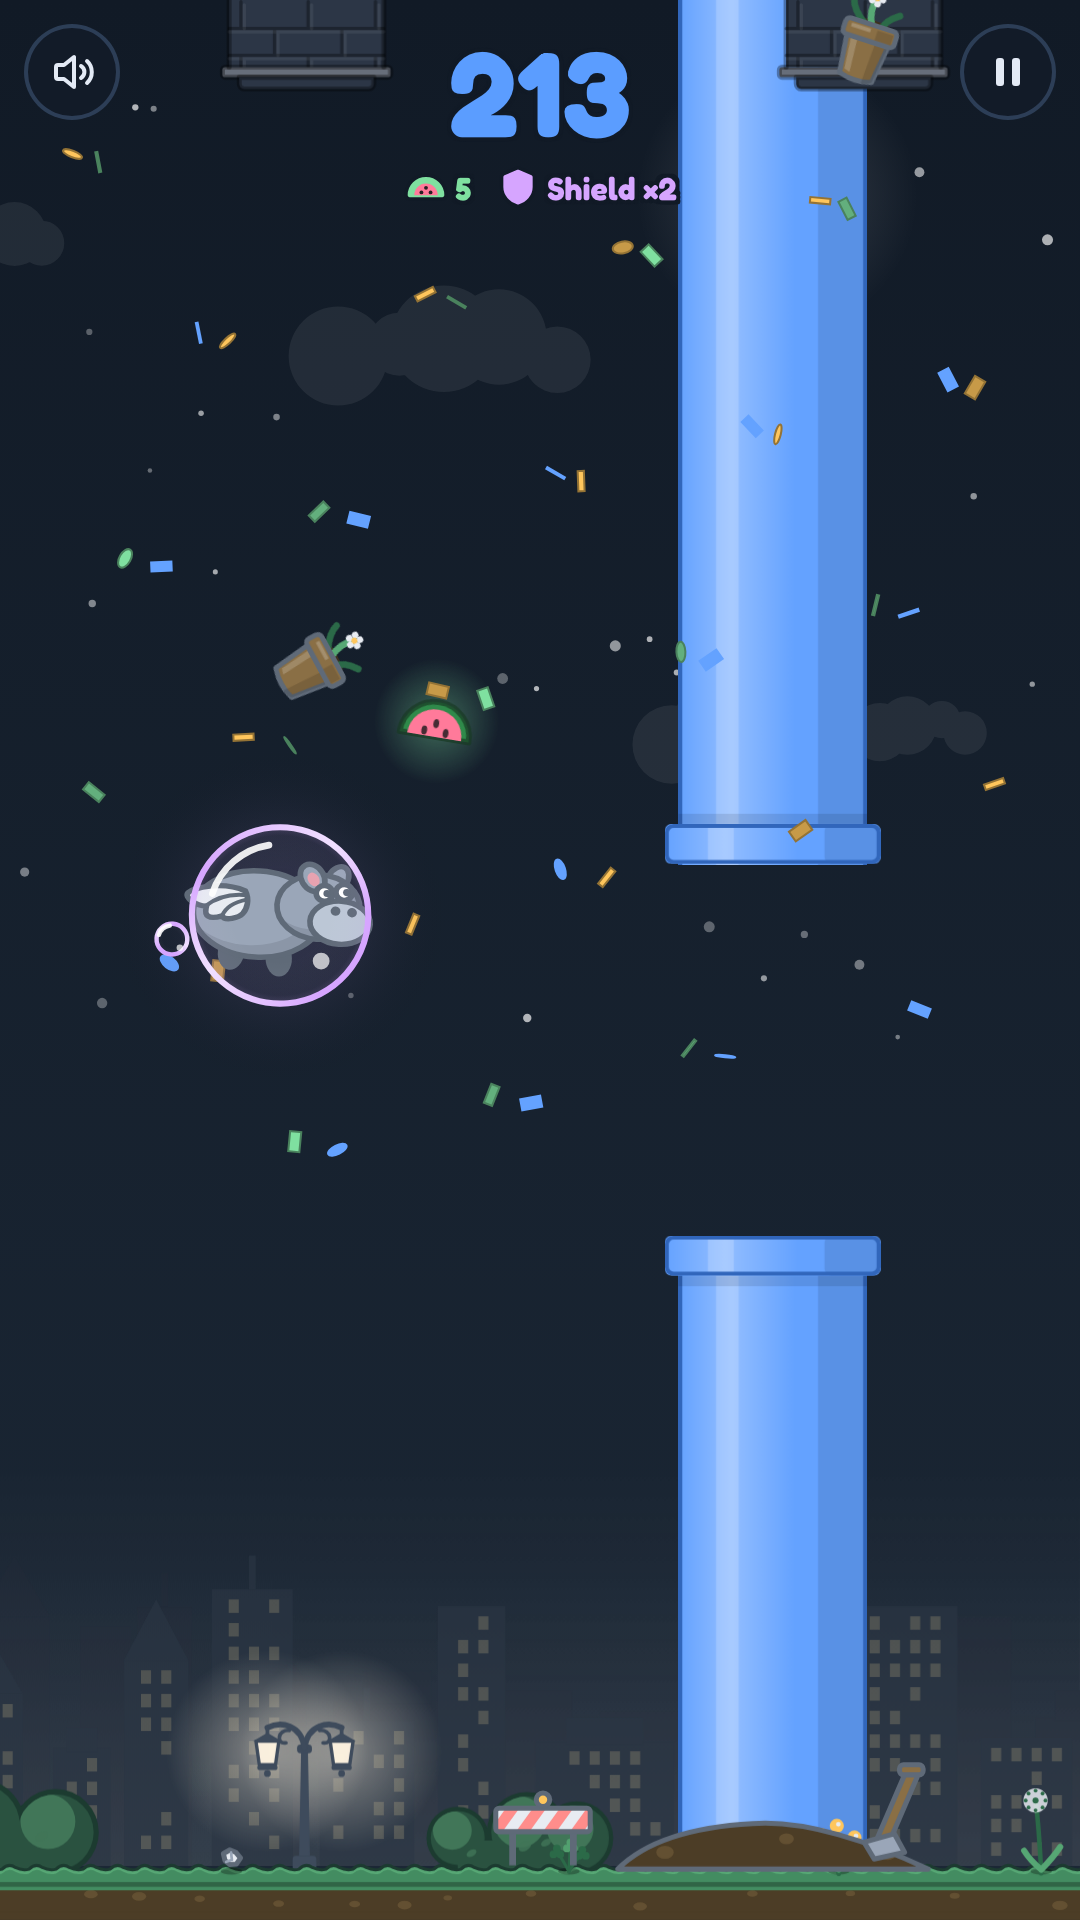
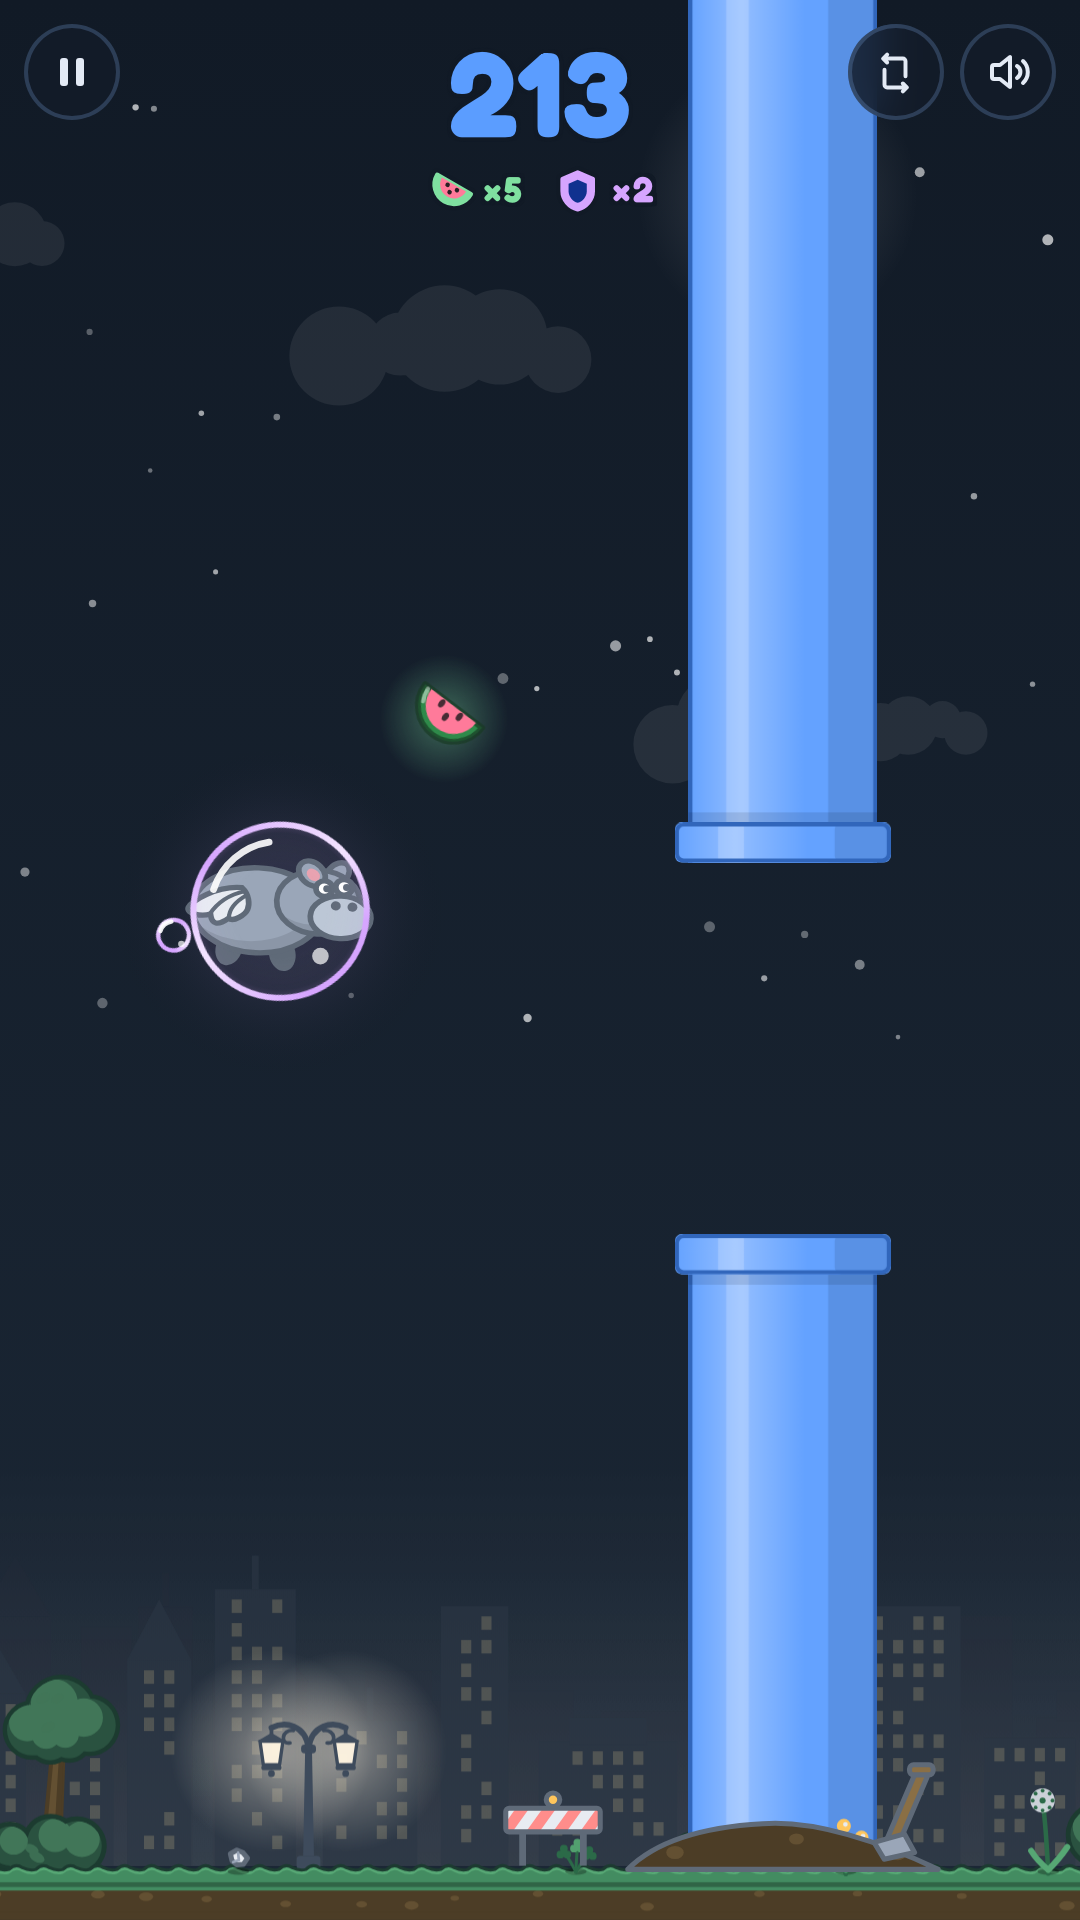
Cap the lettering, refresh screenshots, cut release

diff --git a/scripts/make-screenshots.ts b/scripts/make-screenshots.ts
@@ -87,11 +87,7 @@ const VIEWPORTS = {
   wide: { width: 960, height: 540 },
 }
 
-/**
- * A round deep in the game: a big score, a shield with a spare, a melon to detour for, a pipe
- * under repair swinging ahead, a pot on its balcony and one already falling, and the last
- * milestone's confetti still in the air.
- */
+/** A round deep in the game: a big score, a shield in hand, a melon ahead and pipes to thread. */
 async function flight(page: Page): Promise<void> {
   await page.evaluate(() => {
     const runtime = (window as Window & { __flappyHippo?: { flap(): void; inspect(): { state: any; world: any } } })
@@ -113,56 +109,11 @@ async function flight(page: Page): Promise<void> {
     const ahead = Math.max(world.hippoX + 150, world.width * 0.62)
     state.pipes = [
       { x: ahead, gapY: gap + 8, half: 55, passed: false, baseY: gap + 8, swing: 34, phase: 0.6 },
-      { x: ahead + 220, gapY: gap - 55, half: 55, passed: false, baseY: gap - 55, swing: 0, phase: 0 },
-      { x: ahead + 440, gapY: gap + 25, half: 55, passed: false, baseY: gap + 25, swing: 0, phase: 0 },
+      { x: ahead + 260, gapY: gap - 55, half: 55, passed: false, baseY: gap - 55, swing: 0, phase: 0 },
     ]
-    // The melon hangs between the hippo and the first pipe, in view on every field.
-    state.pickups = [
-      { kind: 'melon', x: world.hippoX + 78, y: gap - 62, taken: false, seed: 1 },
-      { kind: 'shield', x: ahead + 248, y: gap - 55, taken: false, seed: 2 },
-    ]
-    state.pots = [
-      {
-        x: world.hippoX + 40,
-        y: gap - 110,
-        vy: 220,
-        lead: 0.7,
-        falling: true,
-        spin: 0.7,
-        passed: false,
-        smashed: false,
-        seed: 1,
-      },
-      {
-        x: Math.min(ahead + 120, world.width - 32),
-        y: 13.4,
-        vy: 0,
-        lead: 0.8,
-        falling: false,
-        spin: 0.08,
-        passed: false,
-        smashed: false,
-        seed: 2,
-      },
-    ]
-    for (let i = 0; i < 44; i++) {
-      state.confetti.push({
-        x: 20 + ((i * 37) % (world.width - 40)),
-        y: 40 + ((i * 53) % (world.groundY * 0.55)),
-        vx: 0,
-        vy: 30,
-        angle: i,
-        spin: 3,
-        flip: i * 0.7,
-        flipRate: 8,
-        w: 6,
-        h: 3.5,
-        round: i % 4 === 0,
-        tint: i % 3,
-        life: 1.5,
-        seed: i,
-      })
-    }
+    state.pickups = [{ kind: 'melon', x: world.hippoX + 78, y: gap - 62, taken: false, seed: 1 }]
+    state.pots = []
+    state.confetti.length = 0
     state.nextSpawn = state.scrolled + ahead + 660
   })
   await sleep(80)

diff --git a/src/components/Wordmark.tsx b/src/components/Wordmark.tsx
@@ -13,6 +13,9 @@ export const WORDMARK_NIGHT = 0.72
 /** How much of the room above the board the tilted lettering fills. */
 const FILL = 1.06
 
+/** Past this the lettering starts to dominate the page. */
+const MAX_HEIGHT = 200
+
 /** The tilt the lettering hangs at. */
 const TILT = -10
 
@@ -27,7 +30,7 @@ const GRAIN = { tile: 120, strength: 0.7 }
 export function Wordmark({ height, dark }: WordmarkProps) {
   const [aspect, setAspect] = useState(1600 / 772)
   const rad = (Math.abs(TILT) * Math.PI) / 180
-  const tall = Math.round((height * FILL) / (Math.cos(rad) + aspect * Math.sin(rad)))
+  const tall = Math.min(MAX_HEIGHT, Math.round((height * FILL) / (Math.cos(rad) + aspect * Math.sin(rad))))
 
   const onLoad = useCallback((event: SyntheticEvent<HTMLImageElement>) => {
     const img = event.currentTarget
